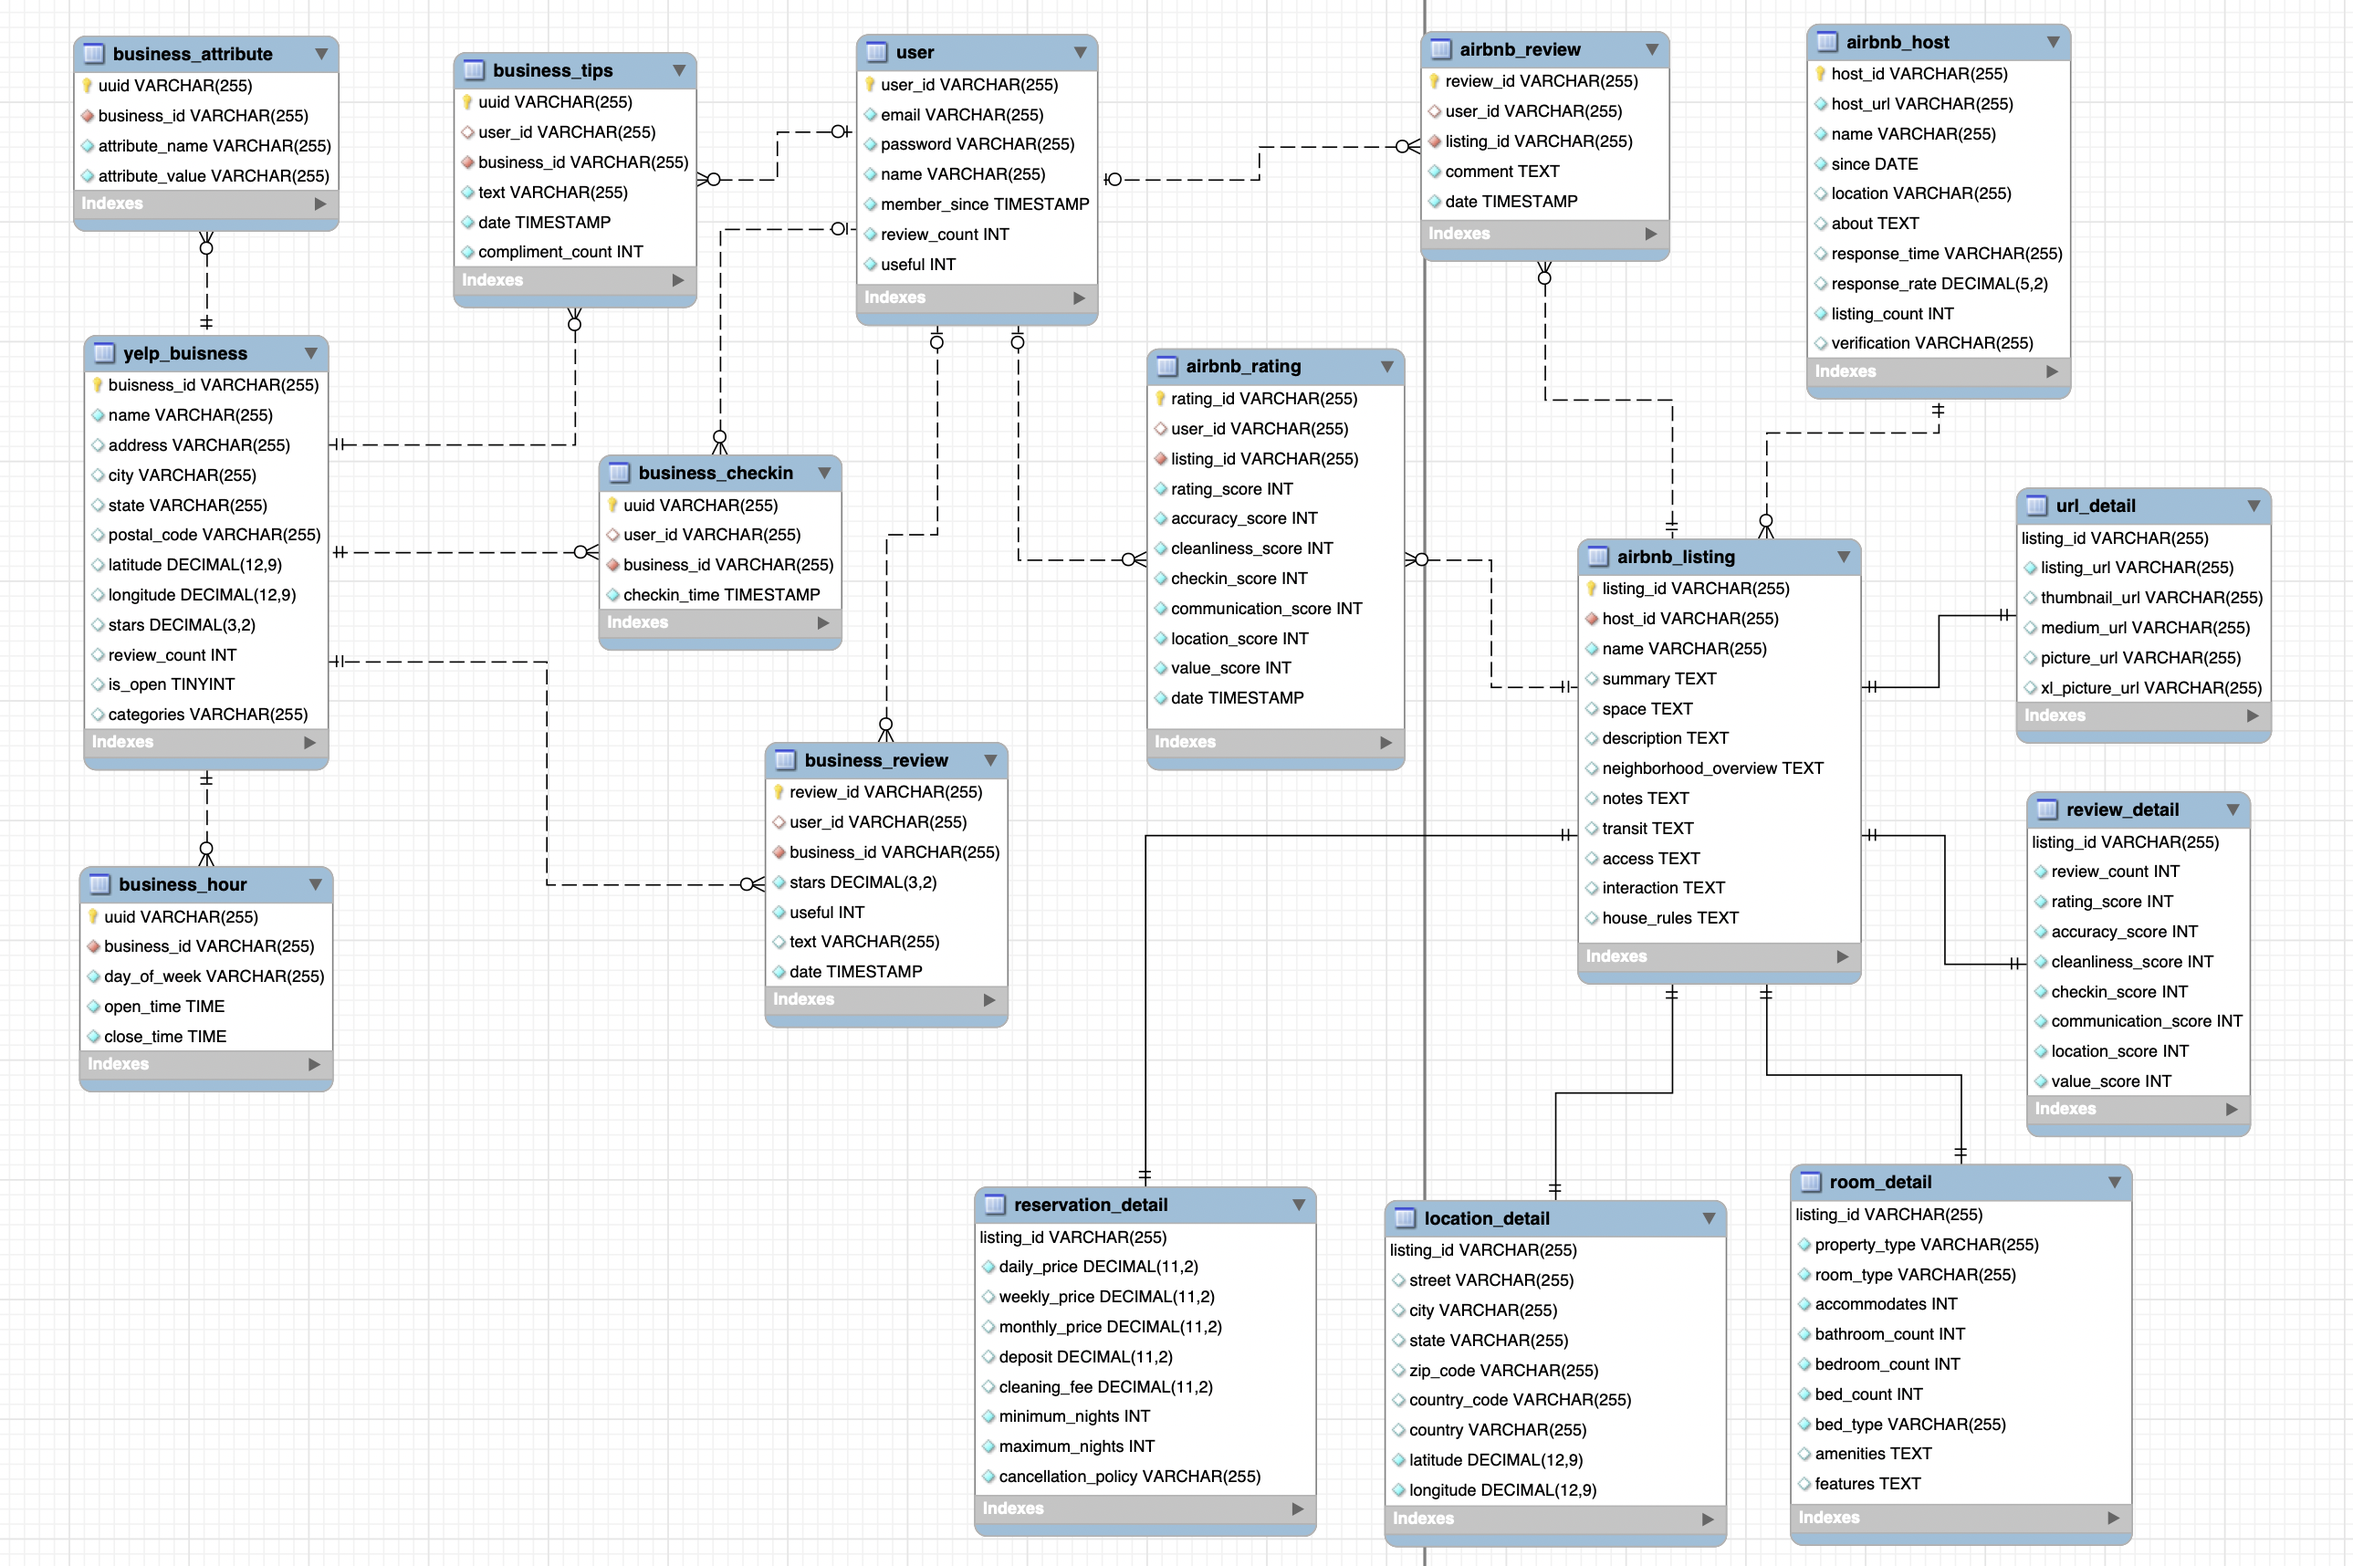
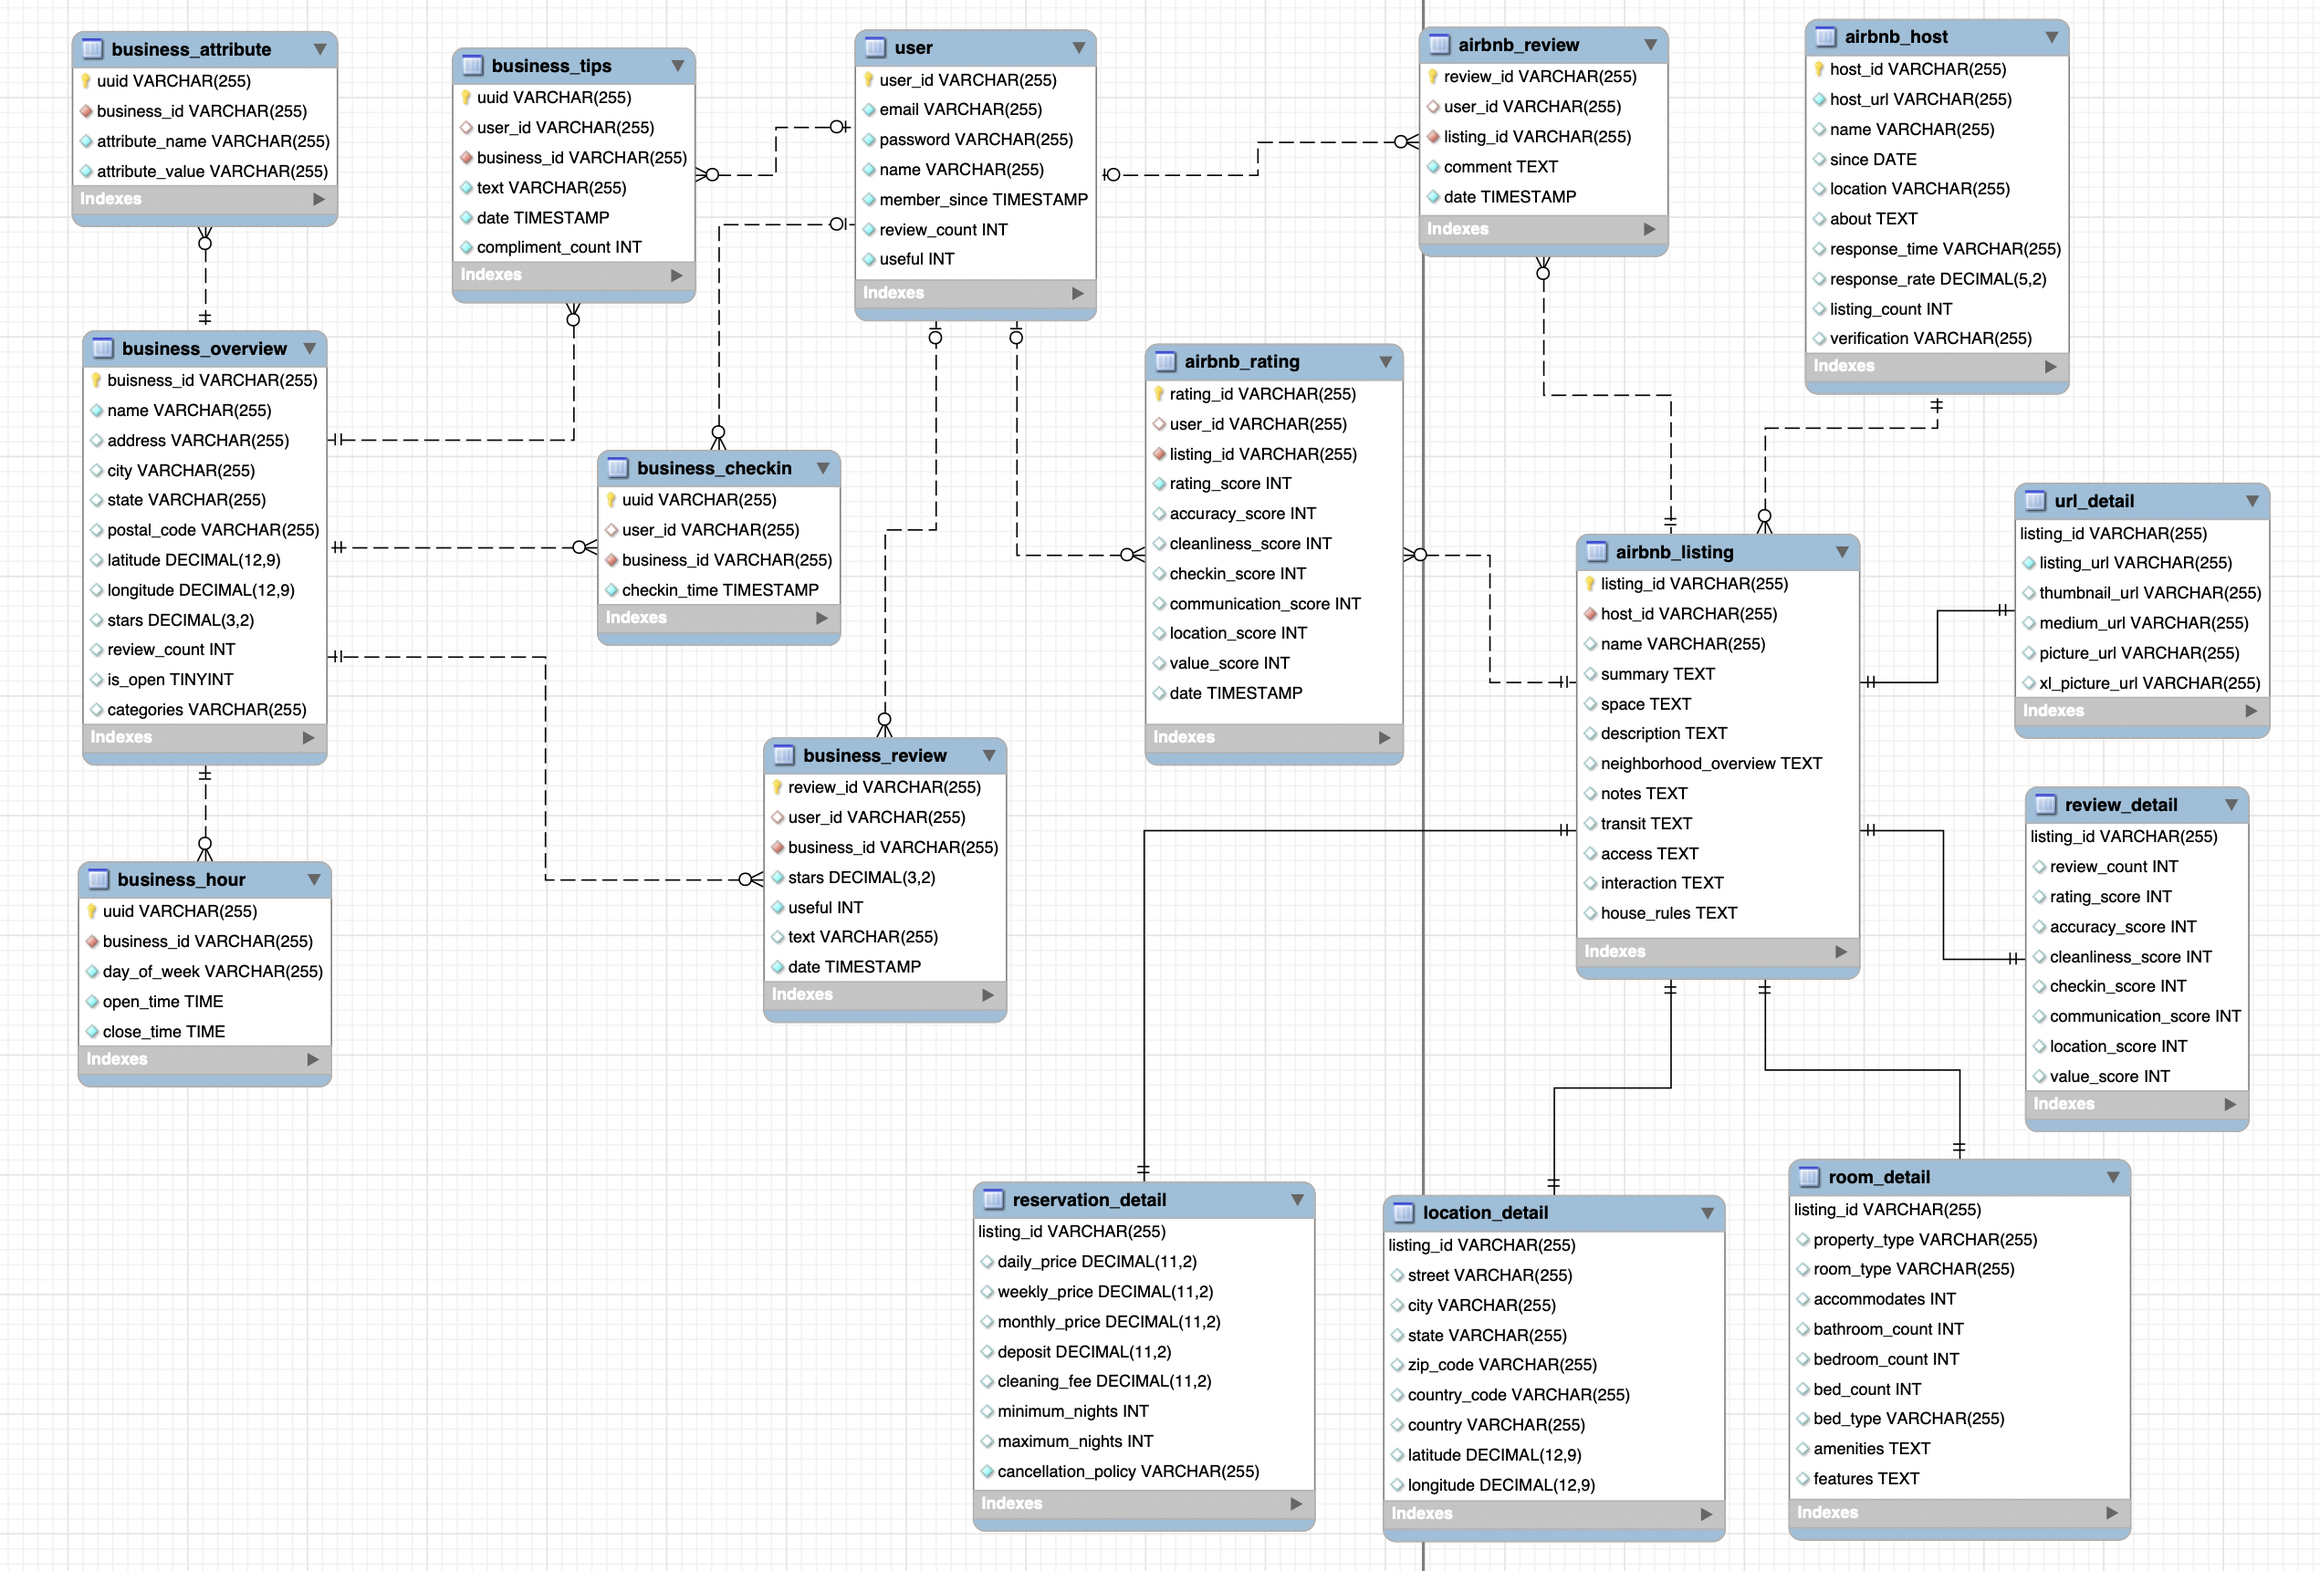
Fix line break issue, update schema and sql

diff --git a/src/main/java/airbnb/ListingSplit.java b/src/main/java/airbnb/ListingSplit.java
@@ -64,6 +64,9 @@ public class ListingSplit {
   private static final String recordPrefixFormat = "^[\\d]+;.*$";
   private static final String recordFormat = "^(([^;]*);){88}([^;]*)$";
 
+  private static long successCount = 0;
+  private static long failureCount = 0;
+
   public static void main(String[] args) throws IOException {
 
     try (
@@ -82,7 +85,6 @@ public class ListingSplit {
           if (csvRecord.toString().matches(recordFormat)) {
             // process valid record
             String[] record = csvRecord.toString().split(";", -1);
-            System.out.println(Arrays.toString(record));
             // write to listing csv
             writeCsv(record, listingInfoIndex, "airbnbListing.csv");
             // write to reservation csv
@@ -97,11 +99,17 @@ public class ListingSplit {
             writeCsv(record, urlInfoIndex, "airbnbListingUrl.csv");
             // write to host csv
             writeCsv(record, hostInfoIndex, "airbnbHost.csv");
+            successCount++;
           } else {
-            System.out.println("!!!!!!!!!!!!!!!!!!!!!!!!! Invalid Record");
+            System.out.println("!!!!!!!!!!!!!!!!!!!!!!!!! Invalid Record !!!!!!!!!!!!!!!!!!!!!!!");
+            System.out.println(Arrays.toString(csvRecord.toString().split(";", -1)).length());
+            System.out.println(Arrays.toString(csvRecord.toString().split(";", -1)));
+            System.out.println("!!!!!!!!!!!!!!!!!!!!!!!!! Invalid Record !!!!!!!!!!!!!!!!!!!!!!!");
+            failureCount++;
           }
           // reset record and append new tempLine
           csvRecord = new StringBuilder(tempLine + "\n");
+          System.out.println("successCount: " + successCount + " | failureCount: " + failureCount);
         } else {
           // no record find, append tempLine into record
           csvRecord.append(tempLine).append("\n");
@@ -127,16 +135,24 @@ public class ListingSplit {
         writeCsv(record, urlInfoIndex, "airbnbListingUrl.csv");
         // write to host csv
         writeCsv(record, hostInfoIndex, "airbnbHost.csv");
+        successCount++;
+      } else {
+        failureCount++;
       }
+      System.out.println("successCount: " + successCount + " | failureCount: " + failureCount);
     }
   }
 
   private static void writeCsv(String[] record, int[] index, String fileName) throws IOException {
     final StringBuilder sb = new StringBuilder();
     for (int i : index) { // original file missing double quotes
-      sb.append("\"").append(record[i]).append("\"").append(";");
+      if ("".equals(record[i].trim())) { // solving "null" string type error issue
+        sb.append("null").append(";");
+      } else {
+        sb.append("\"").append(record[i]).append("\"").append(";");
+      }
     }
-    System.out.print(sb.deleteCharAt(sb.length() - 1).append("\n"));
+    sb.deleteCharAt(sb.length() - 1).append("\r\n");
 
     final String fullPath = "src/main/resources/" + fileName;
     try (FileOutputStream fos = new FileOutputStream(fullPath, true); // append

diff --git a/src/main/java/airbnb/ReviewParsing.java b/src/main/java/airbnb/ReviewParsing.java
@@ -22,6 +22,9 @@ public class ReviewParsing {
   private static final String recordPrefixFormat = "^[\\d]+;.*$";
   private static final String recordFormat = "^(([^;]*);){5}([^;]*)$";
 
+  private static long successCount = 0;
+  private static long failureCount = 0;
+
   public static void main(String[] args) throws IOException {
 
     try (
@@ -40,13 +43,17 @@ public class ReviewParsing {
           if (csvRecord.toString().matches(recordFormat)) {
             // process valid record
             String[] record = csvRecord.toString().split(";", -1);
-            System.out.println(Arrays.toString(record));
             writeCsv(record, reviewIndex, "airbnbReview.csv");
+            successCount++;
           } else {
-            System.out.println("!!!!!!!!!!!!!!!!!!!!!!!!! Invalid Record");
-          }
+            System.out.println("!!!!!!!!!!!!!!!!!!!!!!!!! Invalid Record !!!!!!!!!!!!!!!!!!!!!!!");
+            System.out.println(Arrays.toString(csvRecord.toString().split(";", -1)).length());
+            System.out.println(Arrays.toString(csvRecord.toString().split(";", -1)));
+            System.out.println("!!!!!!!!!!!!!!!!!!!!!!!!! Invalid Record !!!!!!!!!!!!!!!!!!!!!!!");
+            failureCount++;          }
           // reset record and append new tempLine
           csvRecord = new StringBuilder(tempLine + "\n");
+          System.out.println("successCount: " + successCount + " | failureCount: " + failureCount);
         } else {
           // no record find, append tempLine into record
           csvRecord.append(tempLine).append("\n");
@@ -59,7 +66,10 @@ public class ReviewParsing {
         String[] record = csvRecord.toString().split(";");
         System.out.println(Arrays.toString(record));
         writeCsv(record, reviewIndex, "airbnbReview.csv");
+      } else {
+        failureCount++;
       }
+      System.out.println("successCount: " + successCount + " | failureCount: " + failureCount);
     }
   }
 
@@ -77,11 +87,15 @@ public class ReviewParsing {
         } else if (i == 3) {
           sb.append("null").append(";");
         } else {
-          sb.append("\"").append(record[i]).append("\"").append(";");
+          if ("".equals(record[i].trim())) { // solving "null" string type error issue
+            sb.append("null").append(";");
+          } else {
+            sb.append("\"").append(record[i]).append("\"").append(";");
+          }
         }
       }
     }
-    sb.deleteCharAt(sb.length() - 1).append("\n");
+    sb.deleteCharAt(sb.length() - 1).append("\r\n");
 
     final String fullPath = "src/main/resources/" + fileName;
     try (FileOutputStream fos = new FileOutputStream(fullPath, true); // append

diff --git a/README.md b/README.md
@@ -3,7 +3,9 @@
 ## Summary
 
 This repo is the utils to process raw data into valid csv format for database 
-importing.
+importing. Main issues with Json format are the null field within nested Json, 
+and all default separators are used somewhere within the listing csv. Lacking 
+proper double quotes invalidates 15%~ of data.
 
 ## DataSource
 
